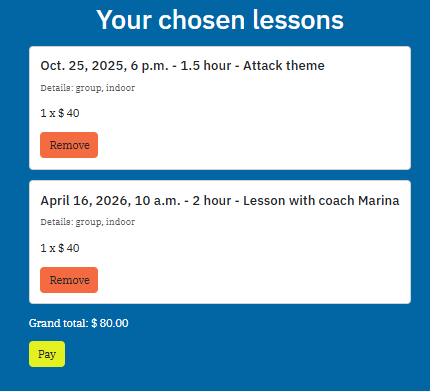
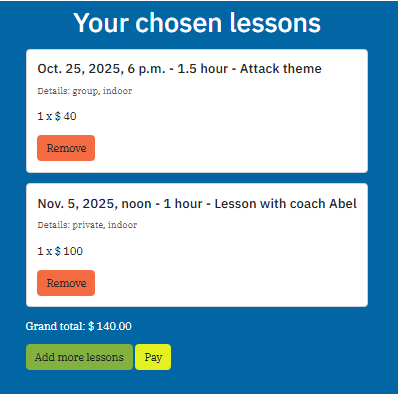
Docs: wireframes

Changed region(s): [[0.0603, 0.0, 0.9648, 0.9514]]

diff --git a/README.md b/README.md
@@ -73,6 +73,52 @@ Below is my initial database schema. I used [Lucidchart](https://lucid.app/lucid
 
 Below are my initial wireframes for mobile and laptop screen sizes. I used [Figma](https://www.figma.com/) to create them.
 
+
+<details>
+    <summary>Home page</summary>Initially, I had planned some sponsor logos but instead I opted for more text on the home page on how everything works. The About section is there, and I added more images to make it more appealing. The logo moved to the center for mobile screens, and the cart icon is now to the right, like the desktop wireframe.
+
+  ![Home](docs/wireframes/wireframe-home.png)
+
+</details>
+<details>
+    <summary>All lessons page</summary>Initially, I wanted to stack all lesson cards on all screen sizes, but my mentor advised me to fill the screen more. So I now have up to three columns of lesson cards. I could not implement the calendar. I also added four buttons with all category/place combinations, instead of two, and an introductory text with the addresses.
+
+  ![All lessons](docs/wireframes/wireframe-lessons.png)
+
+</details>
+<details>
+    <summary>Cart</summary>The cart looks mainly the same as the wireframe, as the lesson cards have less information and the image is removed, they are smaller and they are added in one column on all screens. The buttons' placement has changed slightly. I have implemented a button to go back to all lessons also when there are lessons in the cart late in the process, after feedback. I had it in my wireframe but did not think it was needed because the page is easily accessible in the menu.
+
+  ![Cart](docs/wireframes/wireframe-cart.png)
+
+</details>
+<details>
+    <summary>Checkout/checkout success</summary>The checkout is inspired by Boutique Ado, and the next page after a successful payment (checkout_success.html), was intended to look like this, just without the payment form (left part on desktop screens). In the end, the checkout success page looks more like the cart page, as the left part does take too much place for just an intro text, so it's also one column on desktop screens.
+
+  ![Checkout](docs/wireframes/wireframe-checkout.png)
+
+</details>
+<details>
+    <summary>Profile</summary>The profile is inspired by Boutique Ado with a form and the order history in separate colums, stacked on mobile screens. After feedback from my mentor, I added the possibility to add a profile image, which is not in the wireframes. Also, name and email are not in the form.
+
+  ![Profile](docs/wireframes/wireframe-profile.png)
+
+</details>
+<details>
+    <summary>Add/edit lesson</summary>The page to add a lesson to the website is simply a form in one column on all screen sizes. I added a button to cancel, and the buttons are left aligned instead of right aligned. The page to edit a lesson is the same.
+
+  ![Add lesson](docs/wireframes/wireframe-add.png)
+
+</details>
+<details>
+    <summary>Log in/Log out/Register</summary>The pages to register and log in simply consist of a form and a button to submit, the page to log out simply of a confirmation question and a button to log out.
+
+  ![Login](docs/wireframes/wireframe-login.png)
+
+</details>
+
+
+
 #### Colour schemes
 I used colours related to tennis with a shade of blue, red and green to reflect the different surfaces hard court, clay and grass. Yellow is derived from the tennis ball colour, white is the line colour, and black is used as a contrast colour.
 
@@ -175,10 +221,11 @@ All content is written by me.
 - __Cart__
   - Overview of lesson cards showing only the date, time, duration, name, category, place, and price
   - Always stacked in one column
-  - **Remove** button to remove the lesson form the cart
+  - **Remove** button on each lesson card to remove the lesson form the cart
   - Grand total
+  - Button **Add more lessons** to go to **All lessons** page
   - Button **Pay** to go to checkout
-  - If no lessons are in the cart, button to go to **All lessons**
+  - If no lessons are in the cart: appropriate text and button to go to **All lessons**
     
 
     ![Cart](docs/features/cart.png)

diff --git a/TESTING.md b/TESTING.md
@@ -409,7 +409,7 @@ Tested extensively on a Dell laptop, and on a Lenovo laptop, iPhone 11 Pro, and 
 |Can not add same lesson more than once|When clicking **Add to cart** on already added lesson, you get a message and the lesson is not added to the cart|Added lesson to the cart and then try to add it again|There is a message saying you already have this lesson in the cart, and the lesson is not added to the cart again|Pass|
 |**Places_left** decreases after each order|After an order, **Places_left** decreases with 1, until 0|Completed payments to create orders via normal pay flow and via webhook|The value for **Places_left** decreases after every order, until it is 0 and you can not pay for it anymore|Pass|
 |**Cart** page|
-|Lessons appear|If you have added lessons, they are here and there is a button to pay, if not, there is a text saying there are no lessons and a link to go back to all lessons|Go to **Cart** when I have added lessons, and when it is empty|When I have added lessons, the lesson cards are there and the **Pay** button, when I have no lessons, the text says there no lessons and there is a button to go back to **All lessons**|Pass|
+|Lessons appear|If you have added lessons, they are here and there is a button to add more lessons and one to pay, if not, there is a text saying there are no lessons and a button to go back to all lessons|Go to **Cart** when I have added lessons, and when it is empty|When I have added lessons, the lesson cards are there and the **Add more lessons** and **Pay** buttons, when I have no lessons, the text says there no lessons and there is a button **Go back to all lessons**|Pass|
 |If a user's cart has lessons that have become fully booked, have been soft deleted, and/or with a passed date, they are removed|When you go to the cart and there are such lessons, they removed and there is toast message to inform the user|I added lessons to the cart and afterwards, I manually changed the **Places left** field to 0, edited the date and/or deleted a lesson, in different combinations|I went to the cart and saw the messages and the applicable lessons were removed|Pass|
 |Remove lesson from cart|User can remove lesson from the cart|Removed a lesson from the cart|Lesson card is removed and toast message confirms it|Pass|
 |**Checkout** page|
